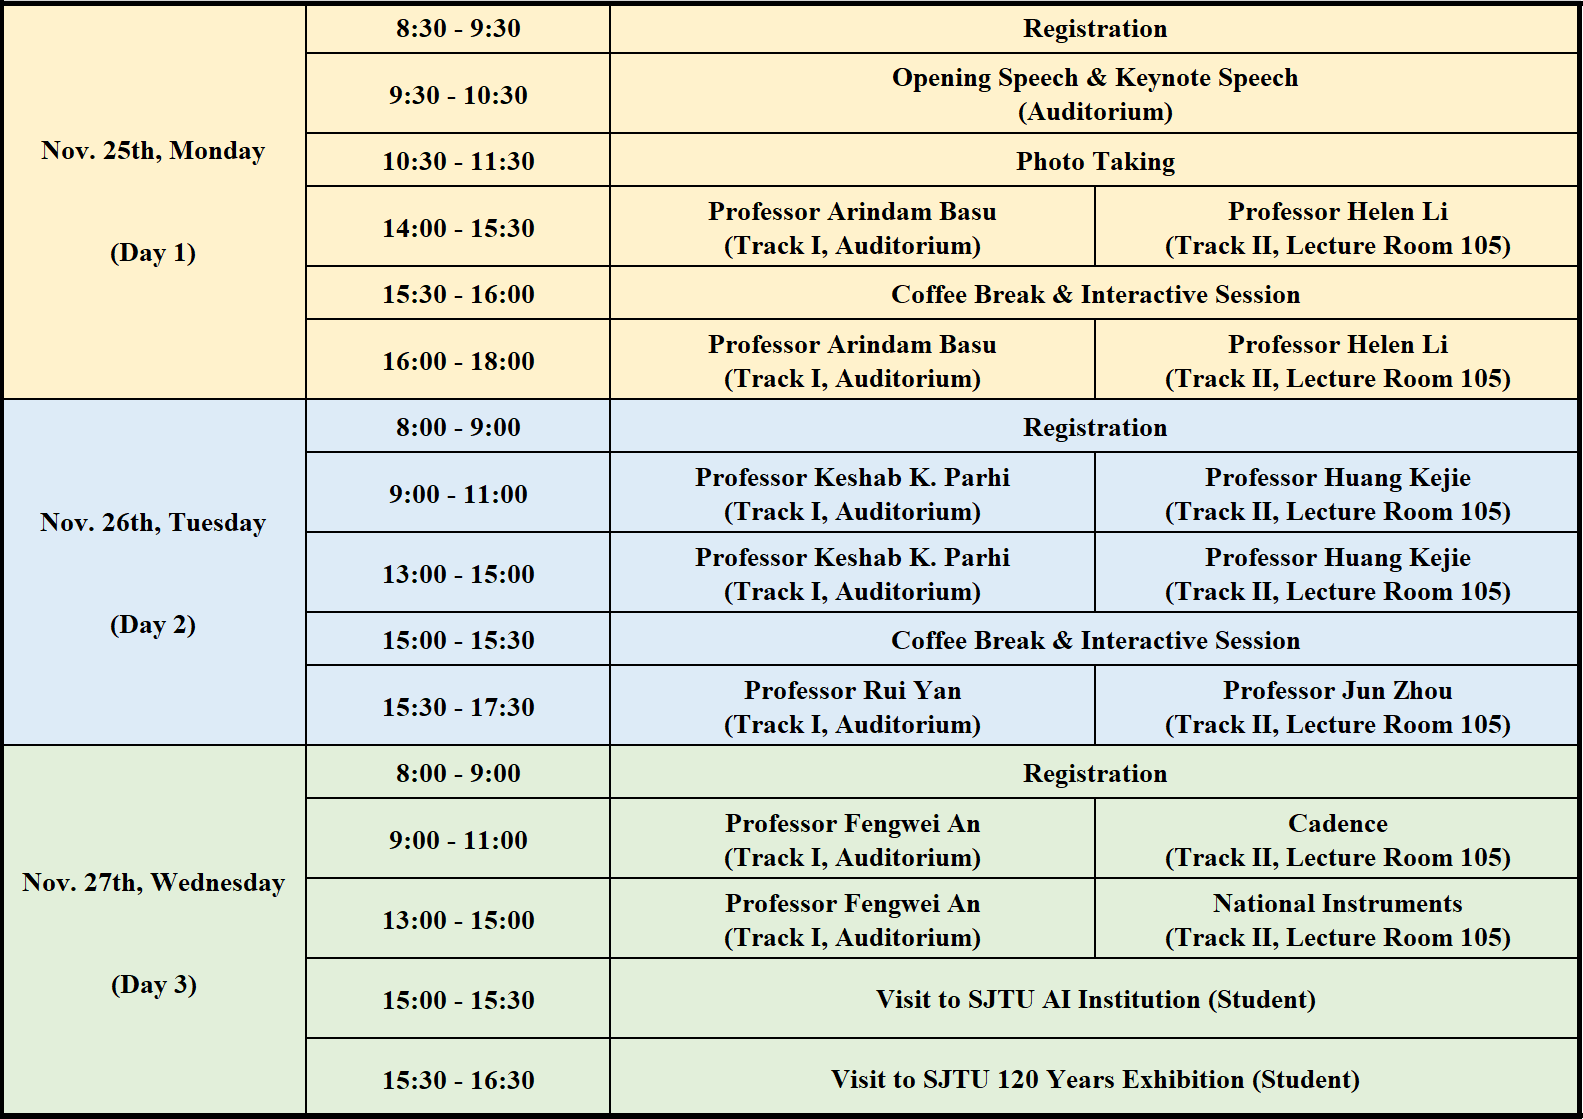
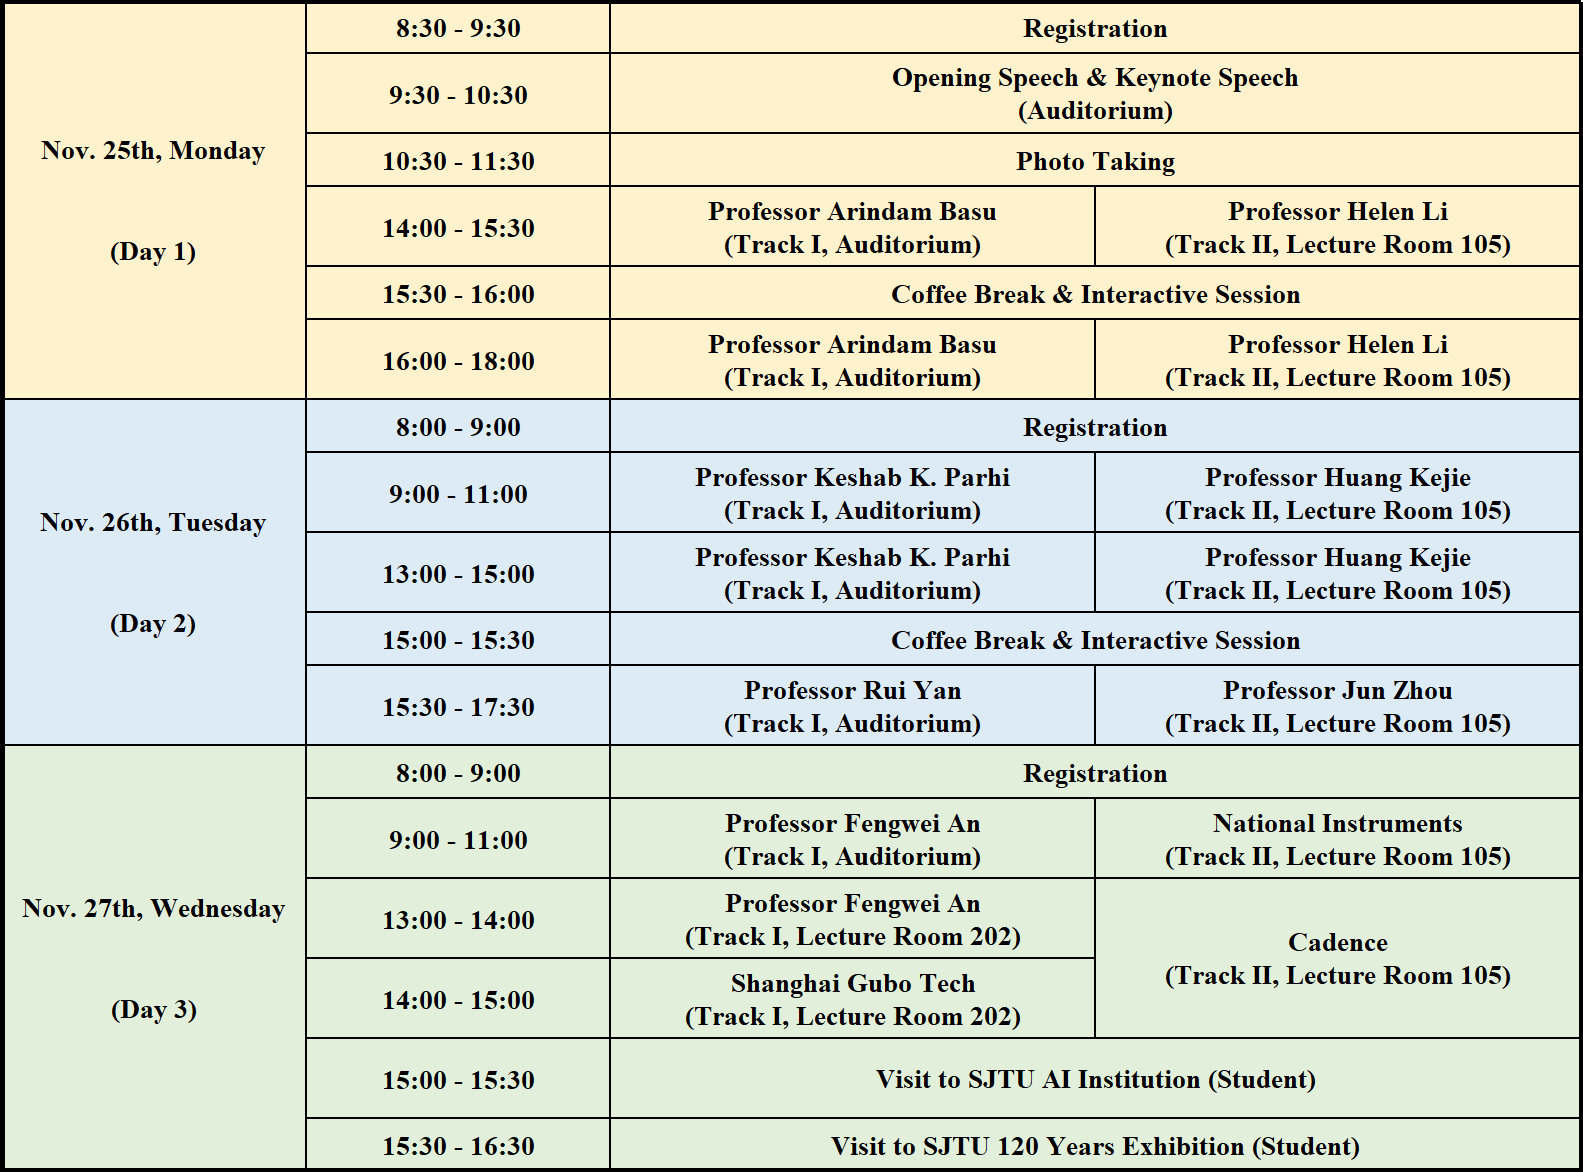
update1120

diff --git a/seasonal/seasonal-school.html b/seasonal/seasonal-school.html
@@ -77,15 +77,24 @@ The seasonal school prepares our members with the technical and practical skills
     <b>Biography:</b> Rui Yan received the B. Sc. and M. Sc. degrees from Department of Mathematics, Sichuan University, China in 1998 and 2001, respectively, and received the Ph. D. degree from Department of Electrical and Computer Engineering, National University of Singapore, Singapore in 2006. She was a postdoctoral research fellow in the University of Queensland, Australia, from 2006 to 2008, and a research scientist with the Institute for Infocomm Research, A*STAR from 2009 to 2014. Now she is a professor at Sichuan University, China. Her research interests include neuromorphic computing, robotic cognition, brain-inspired SLAM.</td></tr>
 <tr class="r7"><td class="c1"><img src="anfengwei.jpg" width="150"><br /><b>Prof. Fengwei An</b><br />SUSTech<br />China</td><td class="c2">
     <b>Course Title:</b> Energy-efficient VLSI Design of Image Recognition and Machine Learning Algorithms for Automotive Applications<br /><br />
-    <b>Lecture Time:</b> 9:00 - 11:00, 13:00 - 15:00, Day3<br /><br />
+    <b>Lecture Time:</b> 9:00 - 11:00, 13:00 - 14:00, Day3<br /><br />
     <b>Abstract:</b>Nowadays, many computer-vision and machine-learning applications in portable devices such as robotics, smartphones, and autonomous vehicles are constrained by their real-time performance requirements. Meanwhile, the power consumption is also a critical factor for battery-powered systems. The VLSI design for image recognition and machine learning must take account of the processing speed and energy-efficiency simultaneously. In particular, embedded SRAM (static random-access memory) macros are important power-dissipation sources in image processing algorithms due to the high-capacitance buses and frequent accesses. To avoid the inductive bounce noise on the power supply and ground caused by large in rush/discharge currents in mode transitions of power-gating approach, in this research, a hardware-friendly algorithm with optimized SRAM utilization is developed to image recognition and machine learning algorithms. The prototype chips with energy-efficient VLSI architecture have been silicon-proved in 28/65/180nm CMOS technology with high integration density and memory-utilization efficiency for demonstrating the applicability in portable devices.<br /><br />
     <b>Biography:</b> Fengwei An received the Ph.D. from Hiroshima University, Japan in 2013. He worked with the Graduate School of Engineering, Hiroshima University as an Assistant Professor from 2013 and as an Associate Professor from 2017. Since April 2018, he works with Panasonic Semiconductor Solutions Co., Ltd for DSP design of CIS and Time-of-Flight Cameras. From March 2019, he is an Associate Professor with School of Microelectronics, Southern University of Science and Technology. His research interests include reconfigurable computing, ultra-low power digital circuits, and systems, and embedded system architecture for image recognition and machine learning algorithms.</td></tr>
-</td></tr>
 <tr class="r8"><td class="c1"><img src="yifan.jpg" width="150"><br /><b>Dr. Yifan Qu</b><br />Cadence Inc. <br />China</td><td class="c2">
     <b>Course Title:</b> Intelligent System Design and Artificial Intelligence in Cadence<br /><br />
-    <b>Lecture Time:</b> 9:00 - 11:00, Day3<br /><br />
+    <b>Lecture Time:</b> 13:00 - 15:00, Day3<br /><br />
     <b>Abstract:</b>The concept of Artificial Intelligence (AI) has been around since the 1950s. But it has not got a real outbreak until the 21st century, which is with the development of deep learning algorithms, the increase in hardware computing power, and the increasing availability of sample data for training. Especially in the application of image, video and speech recognition, artificial intelligence is becoming more and more powerful. The deep learning algorithms relies on the computing power of integrated circuit chips. CPU, GPU, FPGA, and ASIC have different features in terms of performance and flexibility. Customized AI acceleration chips are often able to achieve extreme energy efficiency and throughput through deep hardware and software integration. This talk analyzes the characteristics of dedicated AI chips to achieve performance, power, area and other challenges in the process, as well as solutions to these challenges.<br /><br />
     <b>Biography:</b> Yifan Qu received the B.Eng degree in Microelectronics from Shanghai Jiao Tong University (SJTU) in 2009, and the PhD degree from National University of Singapore (NUS) in 2013. He has been with Cadence Design Systems, Inc. since 2013, where he is currently Product Validation Manager in Digital & Signoff Group. He is in charge of the team for timing and power optimization of the Innovus platform, an SoC implementation and floorplanning system. His research and development focus includes next generation EDA methodologies, logic synthesis and restructure, physical design and signoff, and advanced node semiconductor manufacturing techniques. Yifan was a student member of IEEE and SPIE, and the chief developer in IEEE NUS student branch. He received various awards including Best PV Engineer of Cadence, NGS Scholarship of NUS, First Class Scholarship of SJTU, Best Team in IC Elite Summer Camp by School of Microelectronics of SJTU, and National Scholarship by China Ministry of Education, etc.</td></tr>
+<tr class="r9"><td class="c1"><img src="nihaijiao.jpg" width="150"><br /><b>Haijiao Ni</b><br />National Instruments <br />China</td><td class="c2">
+    <b>Course Title:</b> ADC Testing with PXI Instruments and System<br /><br />
+    <b>Lecture Time:</b> 9:00 - 11:00, Day3<br /><br />
+    <b>Abstract:</b>Analog-to-digital converter is a common component in many electronic devices today and it requires a highly integrated test system with both analog and digital capability to properly validate and test. Generally, some common instruments such as SMU to test power consumption, a digital instrument to communicate with the device, and an analog instrument to generate reference signals are needed. With traditional benchtop instruments, users often face challenges with conflicting programming approaches and difficulties routing signals between instruments. In this session, the fundamentals of testing ADCs including several key measurements are introduced, with the demonstration on how these tests can be automated utilizing PXI instruments to deliver a fully integrated software and hardware experience. At last, we will also introduce NI’s Semiconductor Test System (STS), and how it is able to scale from characterization to production with common hardware and software to easy data correlation and shorten time to market.<br /><br />
+    <b>Biography:</b> Haijiao Ni is the Principal Application Engineer with NI, he has a total of 9 years experience in Semiconductor automated Testing with solid knowledge in mixed signal and RF applications. Haijiao holds a master degree with XI’An Jiaotong university. Before joined NI, he worked for nVIDIA Shenzhen to design graphics cards, where he gained a rich experience on hardware, especially in analog circuits and power converters. After joining NI, he shifted focus from a hardware engineer to a LabVIEW programmer and is now a Certified LabVIEW Architect(CLA). In the first several years, he focused on Real Time Test, where he provided support on HiL opportunities. In 2014, he worked on the first Semiconductor project for Freescale Tianjin, where he designed a production load board with no re-spins. After this, he worked on both the RDA BT project and Maxscend RF Switch project, both with dozens of STS or PXIs deployed. When worked in NI APAC STS CoE, he designed and leaded the 2-month training program to ramp up the key NI semiconductor partner, who has already brought in PO in millions till Q3, 2019.</td></tr>
+<tr class="r10"><td class="c1"><img src="haozhou.jpg" width="150"><br /><b>Hao Zhou</b><br />Shanghai Gubo Tech <br />China</td><td class="c2">
+    <b>Course Title:</b> The Challenge of Mixed-Signal IC Testing<br /><br />
+    <b>Lecture Time:</b> 9:00 - 11:00, Day3<br /><br />
+    <b>Abstract:</b>Semiconductor and electronics developments continue to proceed at an incredible pace. The test coverage increases with the complexity of the DUT which bring lots of challenges for mixed-signal fabless. How we can help customer facing the challenges to make sure their product keeps robustness and reliability in such a competitive industry.<br /><br />
+    <b>Biography:</b> Hao Zhou, General Manger of Shanghai Gubo Tech company, graduated from Fudan University with master’s degree in Microelectronics, used to worked in NI APAC Semiconductor Center of Excellent Team for Semiconductor Test Standardization. Have rich experience from IC design to Test.</td></tr>
 </table>
 <h2>Contact Us</h2>
 <p><b>Email:</b> yongfu.li@sjtu.edu.cn</p>
@@ -118,6 +127,7 @@ The seasonal school prepares our members with the technical and practical skills
         <td><img src="./spon/academic_network_red.png" alt="cadence" width="120" />&nbsp;</td>
         <td><img src="./spon/digilent.jpg" alt="digilent" width="100" />&nbsp;</td>
         <td><img src="./spon/ni.png" alt="ni" width="200" />&nbsp;</td>
+        <td><img src="./spon/Soliton.png" alt="soliton" width="150" />&nbsp;</td>
         <td align="left"></td></tr></table>
 </p>
 </div>
